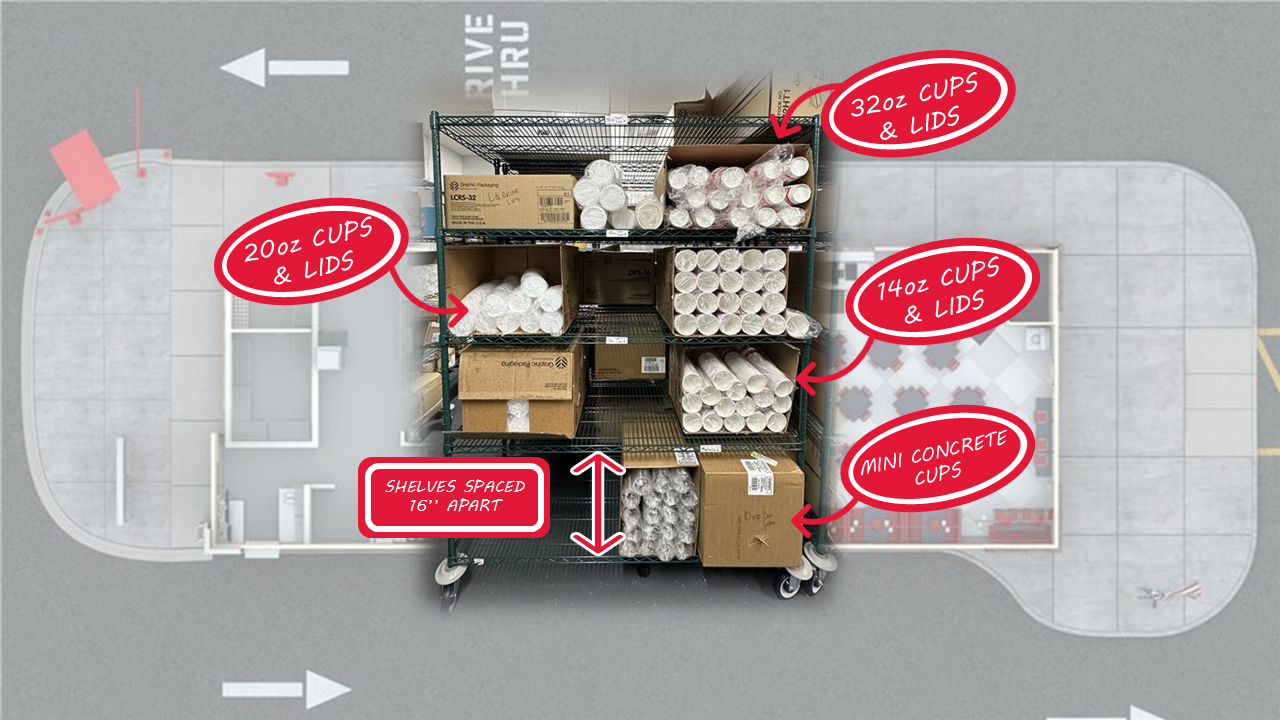
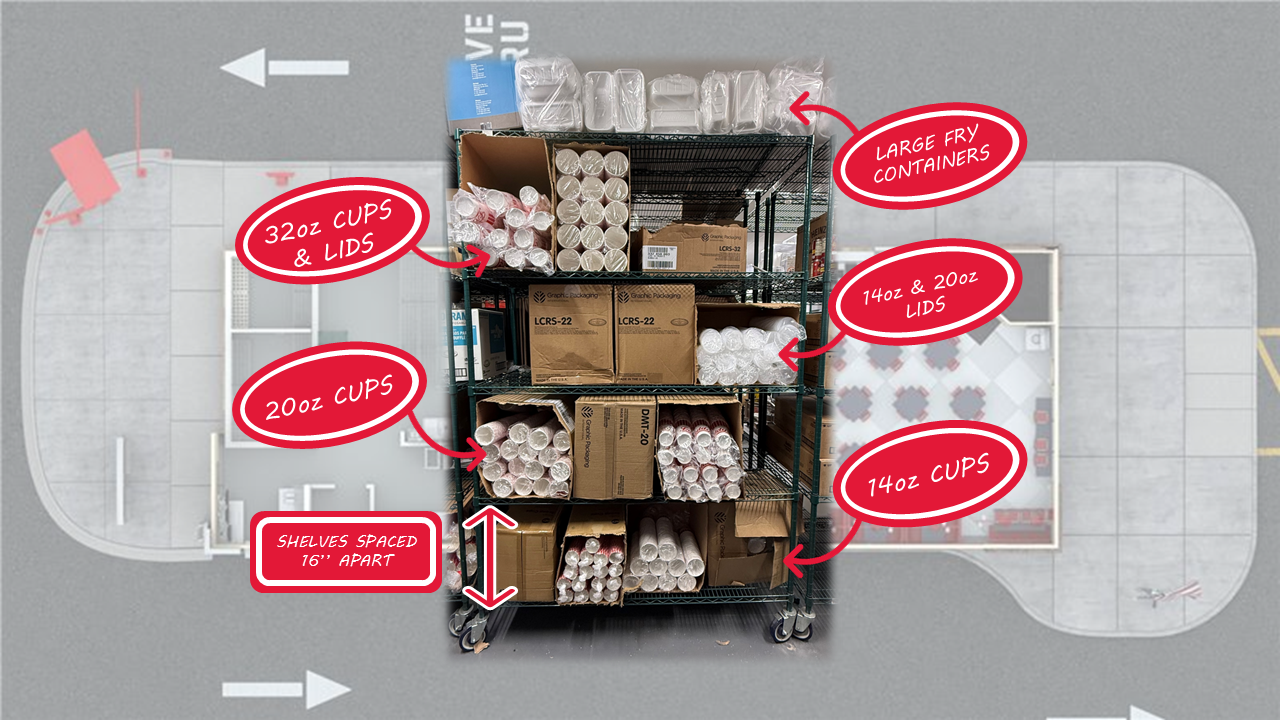
Update drink cups

diff --git a/pages/drinkcups.html b/pages/drinkcups.html
@@ -1,25 +1,24 @@
 <!DOCTYPE html>
 <html lang="en">
-  <head>
-    <meta charset="utf-8" />
-    <meta name="viewport" content="width=device-width, initial-scale=1" />
-    <title>Clickable Training Map</title>
-    <link rel="stylesheet" href="../styles.css" />
-  </head>
 
-  <body class="map-page">
-    <div class="header-divider"> </div>
-    <script src="../assets/js/header.js"></script>
-    <script>renderHeader('../');</script>
+<head>
+  <meta charset="utf-8" />
+  <meta name="viewport" content="width=device-width, initial-scale=1" />
+  <title>Clickable Training Map</title>
+  <link rel="stylesheet" href="../styles.css" />
+</head>
+
+<body class="map-page">
+  <div class="header-divider"> </div>
+  <script src="../assets/js/header.js"></script>
+  <script>renderHeader('../');</script>
   <main class="image-page">
-    <img
-      src="../images/pages/drinkcups.PNG"
-      alt="Drink Cups"
-    />
+    <img src="../images/pages/drinkcups.PNG" alt="Drink Cups" />
   </main>
 
 
   <script src="../assets/js/nav-active.js"></script>
   <script src="../assets/js/search.js"></script>
-  </body>
+</body>
+
 </html>